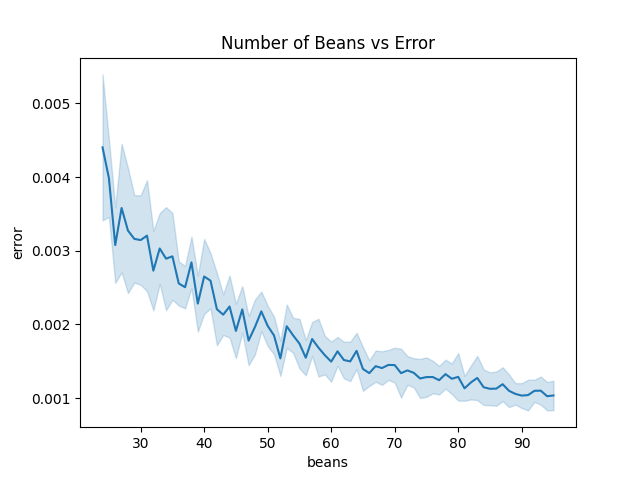
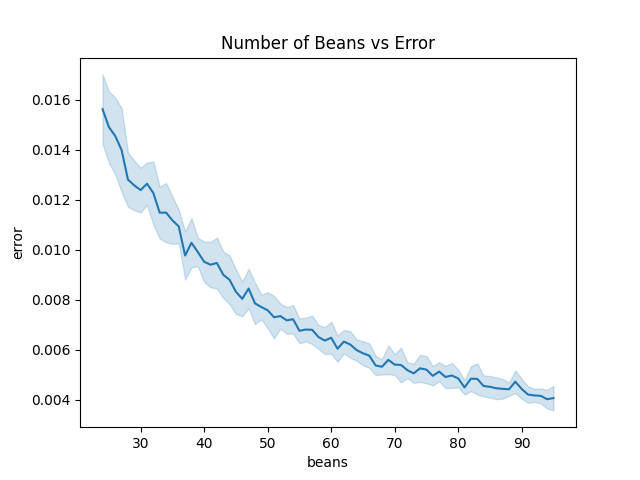
major NRMA_simulate cleanup with added stat feature

diff --git a/manuscript/NRMA_simulate.py b/manuscript/NRMA_simulate.py
@@ -1,5 +1,6 @@
 import pandas as pd
 import numpy as np
+import sys
 
 # using optimized elinear sums problem solver
 from scipy.optimize import linear_sum_assignment
@@ -16,211 +17,166 @@ global phantom_students
 global error_df
 
 simulate = True
-penalty = "beans"
+penalty = sys.argv[1]
 n_beans = 24
-n_student = 7
+n_student = 75
 n_rotations = 4
+stat = 1 # increase to decrease the measured statistical variance
 
 # definitions and converters
 rotationdict = {0: "Option 1", 1: "Option 2", 2: "Option 3", 3: "Option 4"}
 option_to_order_dict = {
-    "Option 1": "LAB – TBC2 – TBC3 – TBC1",
-    "Option 2": "TBC2 – LAB – TBC1 – TBC3",
-    "Option 3": "TBC3 – TBC1 – LAB – TBC2",
-    "Option 4": "TBC1 – TBC3 – TBC2 – LAB",
+	"Option 1": "LAB – TBC2 – TBC3 – TBC1",
+	"Option 2": "TBC2 – LAB – TBC1 – TBC3",
+	"Option 3": "TBC3 – TBC1 – LAB – TBC2",
+	"Option 4": "TBC1 – TBC3 – TBC2 – LAB",
 }
 
 
 def create_cost_matrix():
-    # add penalty
-    cost_matrix = np.random.randint(n_beans // n_rotations, size=(75, n_rotations))
-    if penalty == "beans":
-        pass
-    elif penalty == "linear":
-        cost_matrix = np.random.randint(n_rotations, size=(75, n_rotations))
-    return pad_matrix(cost_matrix)
+	# add penalty
+	cost_matrix = np.random.randint(n_beans // n_rotations, size=(n_student, n_rotations))
+	if penalty == "beans":
+		pass
+	elif penalty == "linear":
+		cost_matrix = np.random.randint(n_rotations, size=(n_student, n_rotations))
+	return pad_matrix(cost_matrix)
 
 
 def build_cost_matrix(preference_df):
-    """
-    convert preferences to cost and apply optional penalties to skew costs
-    """
-    # normalize to max number of beans
-    cost_df = preference_df.drop(columns=["studentID"]).astype(float)
-    cost_df = cost_df.div(cost_df.sum(axis=1), axis=0) * n_beans
-    cost_df = cost_df.fillna(0)
+	"""
+	convert preferences to cost and apply optional penalties to skew costs
+	"""
+	# normalize to max number of beans
+	cost_df = preference_df.drop(columns=["studentID"]).astype(float)
+	cost_df = cost_df.div(cost_df.sum(axis=1), axis=0) * n_beans
+	cost_df = cost_df.fillna(0)
 
-    # convert to costs
-    cost_df = cost_df.sub(cost_df.sum(axis=1), axis=0) * -1
-    cost_matrix = pd.DataFrame.to_numpy(cost_df)
+	# convert to costs
+	cost_df = cost_df.sub(cost_df.sum(axis=1), axis=0) * -1
+	cost_matrix = pd.DataFrame.to_numpy(cost_df)
 
-    # add penalty
-    if penalty == "beans":
-        pass
-    elif penalty == "linear":
-        cost_matrix = cost_to_rank(cost_matrix)
+	# add penalty
+	if penalty == "beans":
+		pass
+	elif penalty == "linear":
+		cost_matrix = cost_to_rank(cost_matrix)
+	else:
+		pass
 
-    return pad_matrix(cost_matrix)
+	return pad_matrix(cost_matrix)
 
 
 def cost_to_rank(cost_matrix):
-    """
-    convert the number of beans to an optimal cost
-    """
-    for i in range(n_rotations):
-        cost_matrix[np.where(cost_matrix == np.max(cost_matrix))] = i - n_rotations
-    return cost_matrix * -1
+	"""
+	convert the number of beans to an optimal cost
+	"""
+	for i in range(n_rotations):
+		cost_matrix[np.where(cost_matrix == np.max(cost_matrix))] = i - n_rotations
+	return cost_matrix * -1
 
 
 def pad_matrix(cost):
-    """
-    pad matrix to multiples of 4
-    add one ghost row and ceil(75/4) - 1 duplicate columns
-    add duplicate columns to ensure square optimization problem
-    """
-    global phantom_students
-    phantom_students = 0
+	"""
+	1. pad matrix to multiples of n_rotations
+	2. add one ghost row and ceil(n_students/n_rotations) - 1 duplicate columns
+	3. add duplicate columns to ensure square optimization problem
+	"""
+	global phantom_students
+	phantom_students = 0
 
-    while np.shape(cost)[0] % n_rotations != 0:
-        cost = np.vstack([cost, [n_beans, n_beans, n_beans, n_beans]])
-        phantom_students += 1
+	while np.shape(cost)[0] % n_rotations != 0:
+		cost = np.vstack([cost, np.full(n_rotations, n_beans)])
+		phantom_students += 1
 
-    cost = np.tile(cost, (1, np.shape(cost)[0] // n_rotations))
-    return cost
+	cost = np.tile(cost, (1, np.shape(cost)[0] // n_rotations))
+	return cost
 
 
 def rotation_calc(cost):
-    """
-    run linear_sum_assignment on cost matrix
-    optimal results are stored in col_index
-    the "cost", or error in this case is the total deviation from everyone getting their first preference
-    """
-    row_ind, col_ind = linear_sum_assignment(cost)
-    err = cost[row_ind, col_ind].sum()
+	"""
+	run linear_sum_assignment on cost matrix
+	optimal results are stored in col_index
+	the "cost", or error in this case is the total deviation from everyone getting their first preference
+	"""
+	row_ind, col_ind = linear_sum_assignment(cost)
+	err = cost[row_ind, col_ind].sum()
 
-    rotation_index = (
-        col_ind % n_rotations
-    )  # re-wraps the indicies to their human readable form
-    rotations = [rotationdict.get(index) for index in rotation_index]
-    # update_cost_matrix(row_ind, rotation_index)
+	rotation_index = (
+		col_ind % n_rotations
+	)  # re-wraps the indicies to their human readable form
+	rotations = [rotationdict.get(index) for index in rotation_index]
+	# update_cost_matrix(row_ind, rotation_index)
 
-    err = err - phantom_students * n_beans  # correction factor for phantom students
+	err = err - phantom_students * n_beans  # correction factor for phantom students
 
-    return rotations, err
-
-
-def analyze(optimal_order, optimal_order_err, performance=None):
-    global error_df
-    delta = optimal_order_err / n_student / n_beans
-
-    if not simulate:
-        print(
-            f"Average error of assignment for first rotation:",
-            delta,
-        )
-        matches = sum(
-            preference_df.drop(columns=["studentID"]).idxmax(axis=1)
-            == performance["optimal_rotation"]
-        )
-        print(
-            f"Percent of students who recieved their first choice rotation:",
-            matches / n_student,
-        )
-    else:
-        temp_df = pd.DataFrame(
-            data=[[n_student, n_beans, delta]],
-            # temp_df = pd.DataFrame(data = [[n_student, n_beans, optimal_order_err]],
-            columns=["students", "beans", "error"],
-        )
-        error_df = pd.concat([error_df, temp_df])
+	return rotations, err
 
 
-def to_string(optimal_order, optimal_order_err):
-    rotations = pd.DataFrame({"optimal_rotation": optimal_order})
-    rotations.drop(
-        rotations.tail(phantom_students).index, inplace=True
-    )  # remove the phantom students
+def analyze(optimal_order, optimal_order_err):
+	global error_df
+	delta = optimal_order_err / n_student / n_beans
 
-    performance = pd.concat([preference_df, rotations], axis=1)
-    performance["rotation_order"] = performance["optimal_rotation"].map(
-        option_to_order_dict
-    )
-
-    performance.to_csv("./out/rotations.csv", index=False)
-
-    return performance
+	temp_df = pd.DataFrame(
+		data=[[n_student, n_beans, delta]],
+		# temp_df = pd.DataFrame(data = [[n_student, n_beans, optimal_order_err]],
+		columns=["students", "beans", "error"],
+	)
+	error_df = pd.concat([error_df, temp_df])
 
 
 def update_cost_matrix(row_ind, col_ind):
-    """
-    greatly increases the penalty of rematching to the same rotation
-    this is a legacy function that is no longer necessary in the current interpretation of the problem
-    """
-    for i in range(len(col_ind)):
-        for mul in range(np.shape(cost)[0] // 4):
-            cost[i][(4 * mul) + col_ind[i]] = 1000
+	"""
+	greatly increases the penalty of rematching to the same rotation
+	this is a legacy function that is no longer necessary in the current interpretation of the problem
+	"""
+	for i in range(len(col_ind)):
+		for mul in range(np.shape(cost)[0] // n_rotations):
+			cost[i][(n_rotations * mul) + col_ind[i]] = 1000
 
 
 def main():
-    if simulate:
-        cost = create_cost_matrix()
-    else:
-        # load preference dataframe
-        global preference_df
-        preference_df = pd.read_csv("/work/preferences.csv")
-        preference_df = preference_df.sample(frac=1).reset_index(
-            drop=True
-        )  # shuffle the students so order no longer leads to preference
-        studentIDs = preference_df["studentID"]
+	cost = create_cost_matrix()
 
-        global n_student
-        n_student = len(studentIDs)
+	optimal_order, optimal_order_err = rotation_calc(cost)
 
-        cost = build_cost_matrix(preference_df)
-
-    optimal_order, optimal_order_err = rotation_calc(cost)
-
-    performance = None
-    if not simulate:
-        performance = to_string(optimal_order, optimal_order_err)
-
-    analyze(optimal_order, optimal_order_err, performance)
+	analyze(optimal_order, optimal_order_err)
 
 
 def plot_students():
-    import matplotlib.pyplot as plt
-    import seaborn as sns
+	import matplotlib.pyplot as plt
+	import seaborn as sns
 
-    sns.lineplot(data=error_df, x="students", y="error", errorbar="sd").set(
-        title="Number of Students vs Error"
-    )
-    figname = "./plots/students_error_" + penalty + ".png"
-    plt.savefig(figname)
-    plt.clf()
+	sns.lineplot(data=error_df, x="students", y="error", errorbar="sd").set(
+		title="Number of Students vs Error"
+	)
+	figname = "./plots/students_error_" + penalty + ".png"
+	plt.savefig(figname)
+	plt.clf()
 
 
 def plot_beans():
-    import matplotlib.pyplot as plt
-    import seaborn as sns
+	import matplotlib.pyplot as plt
+	import seaborn as sns
 
-    sns.lineplot(data=error_df, x="beans", y="error", errorbar="sd").set(
-        title="Number of Beans vs Error"
-    )
-    figname = "./plots/beans_error_" + penalty + ".png"
-    plt.savefig(figname)
-    plt.clf()
+	sns.lineplot(data=error_df, x="beans", y="error", errorbar="sd").set(
+		title="Number of Beans vs Error"
+	)
+	figname = "./plots/beans_error_" + penalty + ".png"
+	plt.savefig(figname)
+	plt.clf()
 
 
 error_df = pd.DataFrame(columns=["students", "beans", "error"])
 for i in range(2 * n_rotations - 1, 301):
-    n_student = i
-    for j in range(10):
-        main()
+	n_student = i
+	for j in range(stat):
+		main()
 plot_students()
 
 error_df = pd.DataFrame(columns=["students", "beans", "error"])
 for i in range(factorial(n_rotations, exact=True), 96):
-    n_beans = i
-    for j in range(10):
-        main()
+	n_beans = i
+	for j in range(stat):
+		main()
 plot_beans()

diff --git a/NRMA.py b/NRMA.py
@@ -76,7 +76,7 @@ def pad_matrix(cost):
     phantom_students = 0
 
     while np.shape(cost)[0] % n_rotations != 0:
-        cost = np.vstack([cost, [n_beans, n_beans, n_beans, n_beans]])
+        cost = np.vstack([cost, np.full(n_rotations, n_beans)])
         phantom_students += 1
 
     cost = np.tile(cost, (1, np.shape(cost)[0] // n_rotations))
